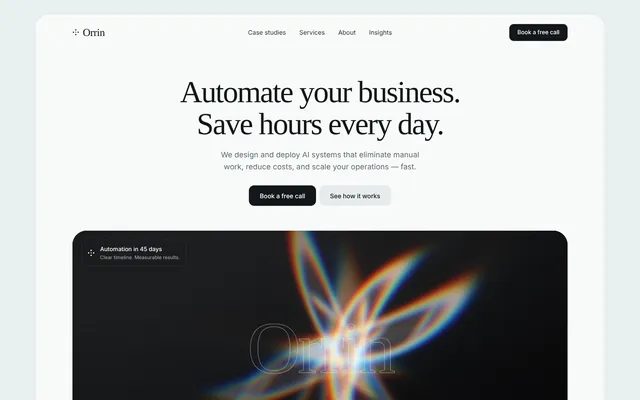
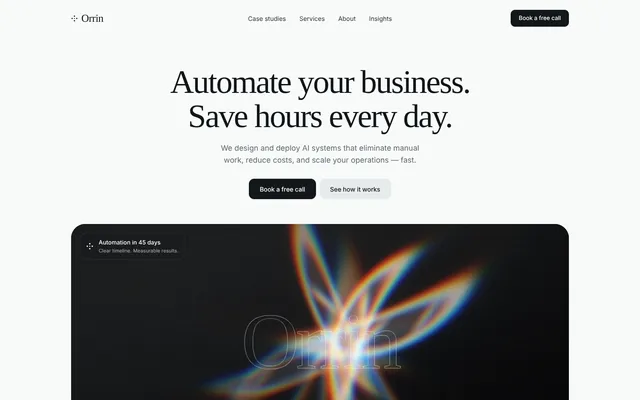
long-exposure-agency-template: full screen, no outer frame
The page itself is the template now: no grey backdrop, padding or rounded
card around it. maxWidth sets the centred content column instead.

Claude-Session: https://claude.ai/code/session_019PD8sGqGzn8tDaeYL7r6hz

diff --git a/components/long-exposure-agency-template/long-exposure-agency-template.tsx b/components/long-exposure-agency-template/long-exposure-agency-template.tsx
@@ -1,7 +1,7 @@
 "use client"
 
 // Long Exposure Agency Template — a whole automation-agency site in one file:
-// a pale frame, a quiet serif, ink buttons, and every picture a long-exposure
+// a full-screen pale page, a quiet serif, ink buttons, and every picture a long-exposure
 // blur of some landscape that was never photographed.
 //
 // Three pages behind one nav, switched in place: home (hero over a live prism,
@@ -91,6 +91,7 @@ export type LongExposureAgencyTemplateProps = {
   /** Button and ink colour in the light theme. */
   ink?: string
   defaultTheme?: "system" | "light" | "dark"
+  /** Width of the content column. The page itself always fills the screen. */
   maxWidth?: string
   height?: string
   className?: string
@@ -1859,7 +1860,7 @@ export default function LongExposureAgencyTemplate({
   sans = SANS,
   ink,
   defaultTheme = "system",
-  maxWidth = "1280px",
+  maxWidth = "1120px",
   height = "100svh",
   className,
 }: LongExposureAgencyTemplateProps) {
@@ -2111,8 +2112,8 @@ export default function LongExposureAgencyTemplate({
 /* ------------------------------------------------------------------ styles */
 
 const LX_CSS = `
-.lx-root{--lx-page:#e9eff0;--lx-card:#f8fafa;--lx-soft:#eff3f3;--lx-soft2:#e6ecec;--lx-ink:#111618;--lx-ink2:#2a3235;--lx-muted:#5e686c;--lx-faint:#8e979b;--lx-line:rgba(17,22,24,.08);--lx-btn:#121719;--lx-btn-ink:#ffffff;--lx-glass:rgba(24,27,30,.42);--lx-shadow:0 1px 2px rgba(17,22,24,.05),0 8px 24px -12px rgba(17,22,24,.12);position:relative;isolation:isolate;box-sizing:border-box;width:100%;padding:clamp(8px,2.2vw,32px);background:var(--lx-page);color:var(--lx-ink);font-family:var(--lx-sans);font-size:15px;line-height:1.5;-webkit-font-smoothing:antialiased;-moz-osx-font-smoothing:grayscale;overflow-x:clip;transition:background-color .4s ease,color .4s ease}
-.lx-root[data-theme=dark]{--lx-page:#07090a;--lx-card:#0f1213;--lx-soft:#161a1c;--lx-soft2:#1d2225;--lx-ink:#edf1f2;--lx-ink2:#cdd4d6;--lx-muted:#98a2a6;--lx-faint:#6b7579;--lx-line:rgba(255,255,255,.08);--lx-btn:#eef2f3;--lx-btn-ink:#0e1214;--lx-glass:rgba(10,12,14,.5);--lx-shadow:0 1px 2px rgba(0,0,0,.3),0 10px 30px -12px rgba(0,0,0,.6)}
+.lx-root{--lx-card:#f8fafa;--lx-soft:#eff3f3;--lx-soft2:#e6ecec;--lx-ink:#111618;--lx-ink2:#2a3235;--lx-muted:#5e686c;--lx-faint:#8e979b;--lx-line:rgba(17,22,24,.08);--lx-btn:#121719;--lx-btn-ink:#ffffff;--lx-glass:rgba(24,27,30,.42);--lx-shadow:0 1px 2px rgba(17,22,24,.05),0 8px 24px -12px rgba(17,22,24,.12);position:relative;isolation:isolate;box-sizing:border-box;width:100%;background:var(--lx-card);color:var(--lx-ink);font-family:var(--lx-sans);font-size:15px;line-height:1.5;-webkit-font-smoothing:antialiased;-moz-osx-font-smoothing:grayscale;overflow-x:clip;transition:background-color .4s ease,color .4s ease}
+.lx-root[data-theme=dark]{--lx-card:#0f1213;--lx-soft:#161a1c;--lx-soft2:#1d2225;--lx-ink:#edf1f2;--lx-ink2:#cdd4d6;--lx-muted:#98a2a6;--lx-faint:#6b7579;--lx-line:rgba(255,255,255,.08);--lx-btn:#eef2f3;--lx-btn-ink:#0e1214;--lx-glass:rgba(10,12,14,.5);--lx-shadow:0 1px 2px rgba(0,0,0,.3),0 10px 30px -12px rgba(0,0,0,.6)}
 .lx-root :where(*,*::before,*::after){box-sizing:border-box}
 .lx-root :where(h1,h2,h3,p,ul,figure,blockquote){margin:0;padding:0}
 .lx-root :where(ul){list-style:none}
@@ -2122,11 +2123,11 @@ const LX_CSS = `
 .lx-root :where(svg,canvas){display:block;max-width:none}
 .lx-root :where(a,button,input,textarea):focus-visible{outline:2px solid var(--lx-ink);outline-offset:2px}
 .lx-serif{font-family:var(--lx-serif);font-weight:400}
-.lx-frame{position:relative;max-width:var(--lx-max);margin:0 auto;background:var(--lx-card);border-radius:clamp(18px,2.4vw,30px);container-type:inline-size;container-name:lx;overflow:clip;box-shadow:0 0 0 1px var(--lx-line);transition:background-color .4s ease}
-.lx-main{display:block;padding:0 clamp(16px,6.5cqw,96px)}
+.lx-frame{position:relative;width:100%;container-type:inline-size;container-name:lx;overflow:clip}
+.lx-main{display:block;padding:0 max(clamp(16px,6.5cqw,96px),calc((100cqw - var(--lx-max)) / 2))}
 
 /* ---------- nav ---------- */
-.lx-nav{position:sticky;top:0;z-index:20;display:grid;grid-template-columns:1fr auto 1fr;align-items:center;gap:16px;padding:22px clamp(16px,6.5cqw,96px);background:color-mix(in oklab,var(--lx-card) 82%,transparent);backdrop-filter:blur(14px) saturate(1.2);-webkit-backdrop-filter:blur(14px) saturate(1.2)}
+.lx-nav{position:sticky;top:0;z-index:20;display:grid;grid-template-columns:1fr auto 1fr;align-items:center;gap:16px;padding:22px max(clamp(16px,6.5cqw,96px),calc((100cqw - var(--lx-max)) / 2));background:color-mix(in oklab,var(--lx-card) 82%,transparent);backdrop-filter:blur(14px) saturate(1.2);-webkit-backdrop-filter:blur(14px) saturate(1.2)}
 .lx-brand{display:inline-flex;align-items:center;gap:8px;justify-self:start;font-size:24px;line-height:1;letter-spacing:-.02em}
 .lx-brand .lx-dots{transition:transform .5s cubic-bezier(.2,.8,.2,1)}
 .lx-brand:hover .lx-dots{transform:rotate(45deg)}
@@ -2350,7 +2351,7 @@ const LX_CSS = `
 .lx-cta small{margin-top:16px;font-size:12px;opacity:.7}
 
 /* ---------- footer ---------- */
-.lx-footer{padding:clamp(72px,9cqw,120px) clamp(16px,10cqw,150px) 36px}
+.lx-footer{padding:clamp(72px,9cqw,120px) max(clamp(16px,10cqw,150px),calc((100cqw - var(--lx-max)) / 2 + 48px)) 36px}
 .lx-foot-top{display:grid;grid-template-columns:1.6fr repeat(3,1fr);gap:32px}
 .lx-foot-brand{display:flex;flex-direction:column;align-items:flex-start}
 .lx-foot-brand p{margin-top:24px;color:var(--lx-ink2);font-size:14px;line-height:1.6}

diff --git a/components/long-exposure-agency-template/README.md b/components/long-exposure-agency-template/README.md
@@ -1,8 +1,9 @@
 # Long Exposure Agency Template
 
-A complete automation-agency site in one component. A pale frame holds a quiet
-serif, ink buttons and soft grey cards. Every picture is a long-exposure blur
-of a landscape that was never photographed, drawn live in WebGL.
+A complete automation-agency site in one component, full screen and edge to
+edge: a pale page with a quiet serif, ink buttons and soft grey cards. Every
+picture is a long-exposure blur of a landscape that was never photographed,
+drawn live in WebGL.
 
 It has three pages behind one nav. They switch in place and never touch the
 host URL:
@@ -93,7 +94,7 @@ Anything else (`/pricing`, `https://…`) is an ordinary link.
 | `serif`, `sans` | Newsreader / Figtree stacks | CSS font-family lists. Load a webfont in your app, then name it here. |
 | `ink` | `#121719` | Button and heading ink in the light theme. |
 | `defaultTheme` | `"system"` | `"system"` follows the host's `.dark` class, then the OS. The footer switch overrides it. |
-| `maxWidth` | `"1280px"` | Width of the frame. |
+| `maxWidth` | `"1120px"` | Width of the content column. The page background always fills the screen; on wider screens the content stays centred. |
 | `height` | `"100svh"` | Minimum height of the page. |
 
 ### Pictures
